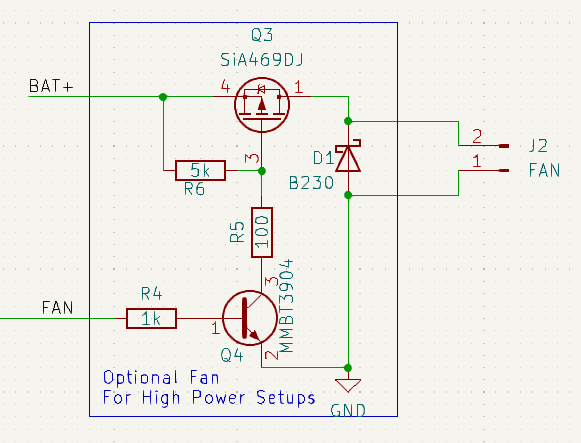
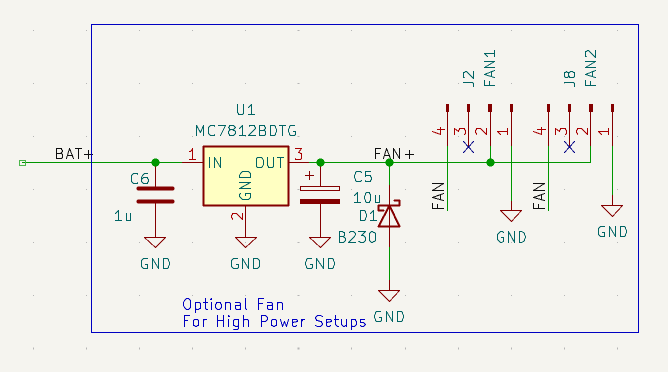
Updated README

diff --git a/README.md b/README.md
@@ -3,7 +3,8 @@ This project describes hardware to safely discharge LIPO batteries to storage le
 
 # WARNING
 
-Everything described in this document is preliminary and untested and could be hazardous.  Following anything written in this document is at-your-own risk.
+Everything described in this document is preliminary and untested and could be
+hazardous.  Following anything written in this document is at-your-own risk.
 
 ## Parts list
 
@@ -22,7 +23,8 @@ Here is an early falstad simulation that gives a basic idea of how the cicuit wo
 
 https://tinyurl.com/2qg4xwyj
 
-There is much going on here.  The sections below break down and explain one subcircuit at a time.
+There is much going on here.  The sections below break down and explain one
+subcircuit at a time.
 
 ### Power Dissipation
 
@@ -41,7 +43,8 @@ datasheet graph below:
 
 ![vgs curve](images/vgs_curve.png)
 
-> Note: The schematic has been updated to use an alternate PFET due to the FQP27P06 no longer being produced.
+> Note: The schematic has been updated to use an alternate PFET due to the
+FQP27P06 no longer being produced.
 
 ### Vgs Control
 
@@ -52,16 +55,21 @@ below:
 
 ![rc circuit](images/rc_circuit.png)
 
-The main element here is the 10u capacitor on the right side of the image.  This capacitor is filled and emptied to set the Vgs that each MOSFET will see.
+The main element here is the 10u capacitor on the right side of the image.  This
+capacitor is filled and emptied to set the Vgs that each MOSFET will see.
 
-Filling the capacitor is the 5k resistor, R16.  If only this resistor and the capacitor existed, then the RC constant would be 5000 * 10e-6 = 50ms.  When the
+Filling the capacitor is the 5k resistor, R16.  If only this resistor and the
+capacitor existed, then the RC constant would be 5000 * 10e-6 = 50ms.  When the
 capacitor is sufficiently charged, the MOSFETs will be turned off.
 
-The two transistor networks are used to drain the capacitor.  The one on the left
-is a "slow" drain and the one on the right is a "fast" drain.  The size of the resistors (R17 and R20) at the collector determines the drain speed.  A microcontroller feeds in a PWM signal with a varying duty cycle to control how
+The two transistor networks are used to drain the capacitor.  The one on the
+left is a "slow" drain and the one on the right is a "fast" drain.  The size of
+the resistors (R17 and R20) at the collector determines the drain speed.  A
+microcontroller feeds in a PWM signal with a varying duty cycle to control how
 much charge they pull from the capacitor thus determining the Vgs value.
 
-In the power-on state, we can assume that SLOW and FAST are not driven at all (high Z).  In this state the two 50k pulldowns (R14, R18) turn off Q6 and Q9
+In the power-on state, we can assume that SLOW and FAST are not driven at all
+(high Z).  In this state the two 50k pulldowns (R14, R18) turn off Q6 and Q9
 allowing the capacitor to fill up and turn off all MOSFETs.
 
 The 100K pull down resistor slowly drains the capacitor so that it is in a known
@@ -109,7 +117,10 @@ In many cases, minimizing the power loss through this sense resistor is
 desirable so a small resistance will be chosen and the corresponding low voltage
 drop will be amplified in an attempt to get enough ADC resolution.
 
-Because powerloss *is* the goal here, we instead choose power resistors that directly provide a full (3V) drop at around 30V input.  To safely get there, I chose 3 35W 0.4 ohm resistors connected in parallel for a total dissipation capability of ~100W and an equivilent resistance of 0.133 ohm.
+Because powerloss *is* the goal here, we instead choose power resistors that
+directly provide a full (3V) drop at around 30V input.  To safely get there, I
+chose 3 35W 0.4 ohm resistors connected in parallel for a total dissipation
+capability of ~100W and an equivilent resistance of 0.133 ohm.
 
 A zener diode (U5) is used to protect the ADC of the microcontroller in the
 event that the divided voltage is too high (> 3V).  The microcontroller firmware
@@ -120,8 +131,12 @@ exactly that.  In normal use, this case should not occur.
 
 ![fuse](images/fuse.png)
 
-We also have a protection fuse to help protect against software faults or other unexpected problems.  More protection would be offered if the fuse were right at the battery input but this would introduce a further temperature-dependent voltage drop that would throw off the voltage measurement.  The "unprotected" components
-are the digital logic which should be low current draw barring a physical issue with the board (< 100 mA)
+We also have a protection fuse to help protect against software faults or other
+unexpected problems.  More protection would be offered if the fuse were right at
+the battery input but this would introduce a further temperature-dependent
+voltage drop that would throw off the voltage measurement.  The "unprotected"
+components are the digital logic which should be low current draw barring a
+physical issue with the board (< 100 mA)
 
 ### Voltage Sense
 
@@ -133,10 +148,13 @@ The microcontroller monitors the overall battery voltage to determine a sag valu
 
 The circuit is a simple voltage divider with a capacitor to help stabilize the reading.
 
-Sag is determined by periodically turning off the FETs (say for one second every 15 seconds) and measuring the "unloaded" voltage of the pack.  This can then be
+Sag is determined by periodically turning off the FETs (say for one second every
+15 seconds) and measuring the "unloaded" voltage of the pack.  This can then be
 used a reference value to determine the sag.
 
-The voltags at R9 is not exactly the battery voltage as it has to pass through a a diode and FET.  The micorcontroller calculations will attempt to compensate for the drop.
+The voltage at R9 is not exactly the battery voltage as it has to pass through a
+a diode and FET.  The micorcontroller calculations will attempt to compensate
+for the drop.
 
 ### Temperature Sense
 
@@ -151,14 +169,19 @@ the power dissipation via FAST and SLOW PWM signals (as described earlier).
 
 [falstad model](https://tinyurl.com/22wuu5mp)
 
-The LIPO drainer is designed to draw nearly zero power (outside of parasitic losses) when it is off, including after the discharging has completed.  Thus the user can leave the unit unattended (assuming the needed precautions have been taken) without concern of overdraining.
+The LIPO drainer is designed to draw nearly zero power (outside of parasitic
+losses) when it is off, including after the discharging has completed.  Thus the
+user can leave the unit unattended (assuming the needed precautions have been
+taken) without concern of overdraining.
 
 This is implemented with the following circuit:
 
 ![power cutoff](images/power_cutoff.png)
 
 
-The Q2 FET is key.  It determines if the microcontroller gets any power.  If the microcontroller has no power, then the power FETs described earlier naturally enter an "off" state.
+The Q2 FET is key.  It determines if the microcontroller gets any power.  If the
+microcontroller has no power, then the power FETs described earlier naturally
+enter an "off" state.
 
 Q2 is off by default, turned off by R2.  There are two ways to turn it on:
 
@@ -169,7 +192,10 @@ Q2 is off by default, turned off by R2.  There are two ways to turn it on:
 
 ![adc reference](images/adc_reference.png)
 
-When using an ADC, one can typically choose from several different sources for the ADC max voltage with the internally-generated 3.3V source as the most convenient.  The downside of choosing this source is accuracy as the source is not optimized for the application.
+When using an ADC, one can typically choose from several different sources for
+the ADC max voltage with the internally-generated 3.3V source as the most
+convenient.  The downside of choosing this source is accuracy as the source is
+not optimized for the application.
 
 This design uses the alternate `ADC_VREF` input with a `LM4040` voltage reference
 to allow for more accurate measurements.
@@ -178,11 +204,11 @@ to allow for more accurate measurements.
 
 ![oled](images/oled.png)
 
-The design breaks out an I2C connection that is typical for an I2C OLED.  A 128x64 design is the intended unit but anything that supports I2C could be supported with appropriate firmware.
+The design breaks out an I2C connection that is typical for an I2C OLED.  A
+128x64 design is the intended unit but anything that supports I2C could be
+supported with appropriate firmware.
 
 ### Fan connection
-
-[falstad model](https://tinyurl.com/26cncr9p)
 
 The LIPO generator effectively converts battery energy to heat, thus you'll need
 a cooling strategy to avoid overheating and damaging the discharge circuit.
@@ -193,9 +219,12 @@ The circuitry below supports a PWM-based fan controller.
 
 ![fan](images/fan.png)
 
-This controller feeds the full battery voltage into the fan as PWM pulses.  These pulses interact with the natural inductance of the motor to create a basic "buck converter" circuit.  The diode "D1" acts as a flywheel, allowing the motor to power itself when the Q3 is closed and avoiding negative voltage spikes at the drain of Q3.
+The circuit is just a 12V linear regulator with supporting capacitors.  The connections support "PWM" style PC case fans which generally acccept a 25Khz PWM
+signal on pin 4.
 
-There are many motor controllers ICs available on the market.  The reason they were not chosen here is because the maximum battery input voltage (30V) exceeds the specifications of most of these controllers.  Also many of these controllers provide an H-bridge solution, which is overkill here (we don't need to run the fan in reverse).
+The flyback diode is needed when powering motors.  In this case it is likely not needed as PC case fans almost always include one in their circuitry.  But I have
+it there as a precaution in case a fan is somehow selected that does not have
+one.
 
 ### Control Buttons
 
@@ -213,7 +242,10 @@ support.
 
 ### PI Pico Microcontroller
 
-As is typical, a microcontroller orchestrates the effort.  Here I chose a PI Pico because it is inexpensive and quite capable.  It's main downside is the lack of a low-power sleep mode, but the Power cutoff circuit explained above compensates for this shortcoming.
+As is typical, a microcontroller orchestrates the effort.  Here I chose a PI
+Pico because it is inexpensive and quite capable.  It's main downside is the
+lack of a low-power sleep mode, but the Power cutoff circuit explained above
+compensates for this shortcoming.
 
 ![pico](images/pico.png)
 
@@ -227,6 +259,26 @@ A little bit on the tasks the Pico must attend to:
 6. It controls the fan speed (if present) via the FAN pin.
 7. It may monitor the buttons B1, B2, B3, B4 and ON to as a part of user control.
 
+## PCB Layout
+
+![pcb](images/pcb.png)
+
+The PCB layout is above.  Some notes on the layout:
+
+* The dimensions of the board are 122 x 88 mm (4.8 x 3.5 inches)
+* Power FETs and resistors are aligned so that a single (large) heatsink can service all of them
+* Large traces are used in the higher current areas.
+* Large vias are used to try and distribute current and reduce hotspots. 
+
+It is recommended to use thicker 2oz copper when manufacturing this board to handle the potentially-large current.
+
+Here is an image of the board from the KiCAD image viewer.  Top and bottom:
+
+![3d top](images/3d_top.png)
+
+![3d bottom](images/3d_bottom.png)
+
+Note that the KiCAD rendering has a number of missing components and imperfections due to my not taking the time to address them.  But you should get the basic idea.
 
 ## Calibration
 
